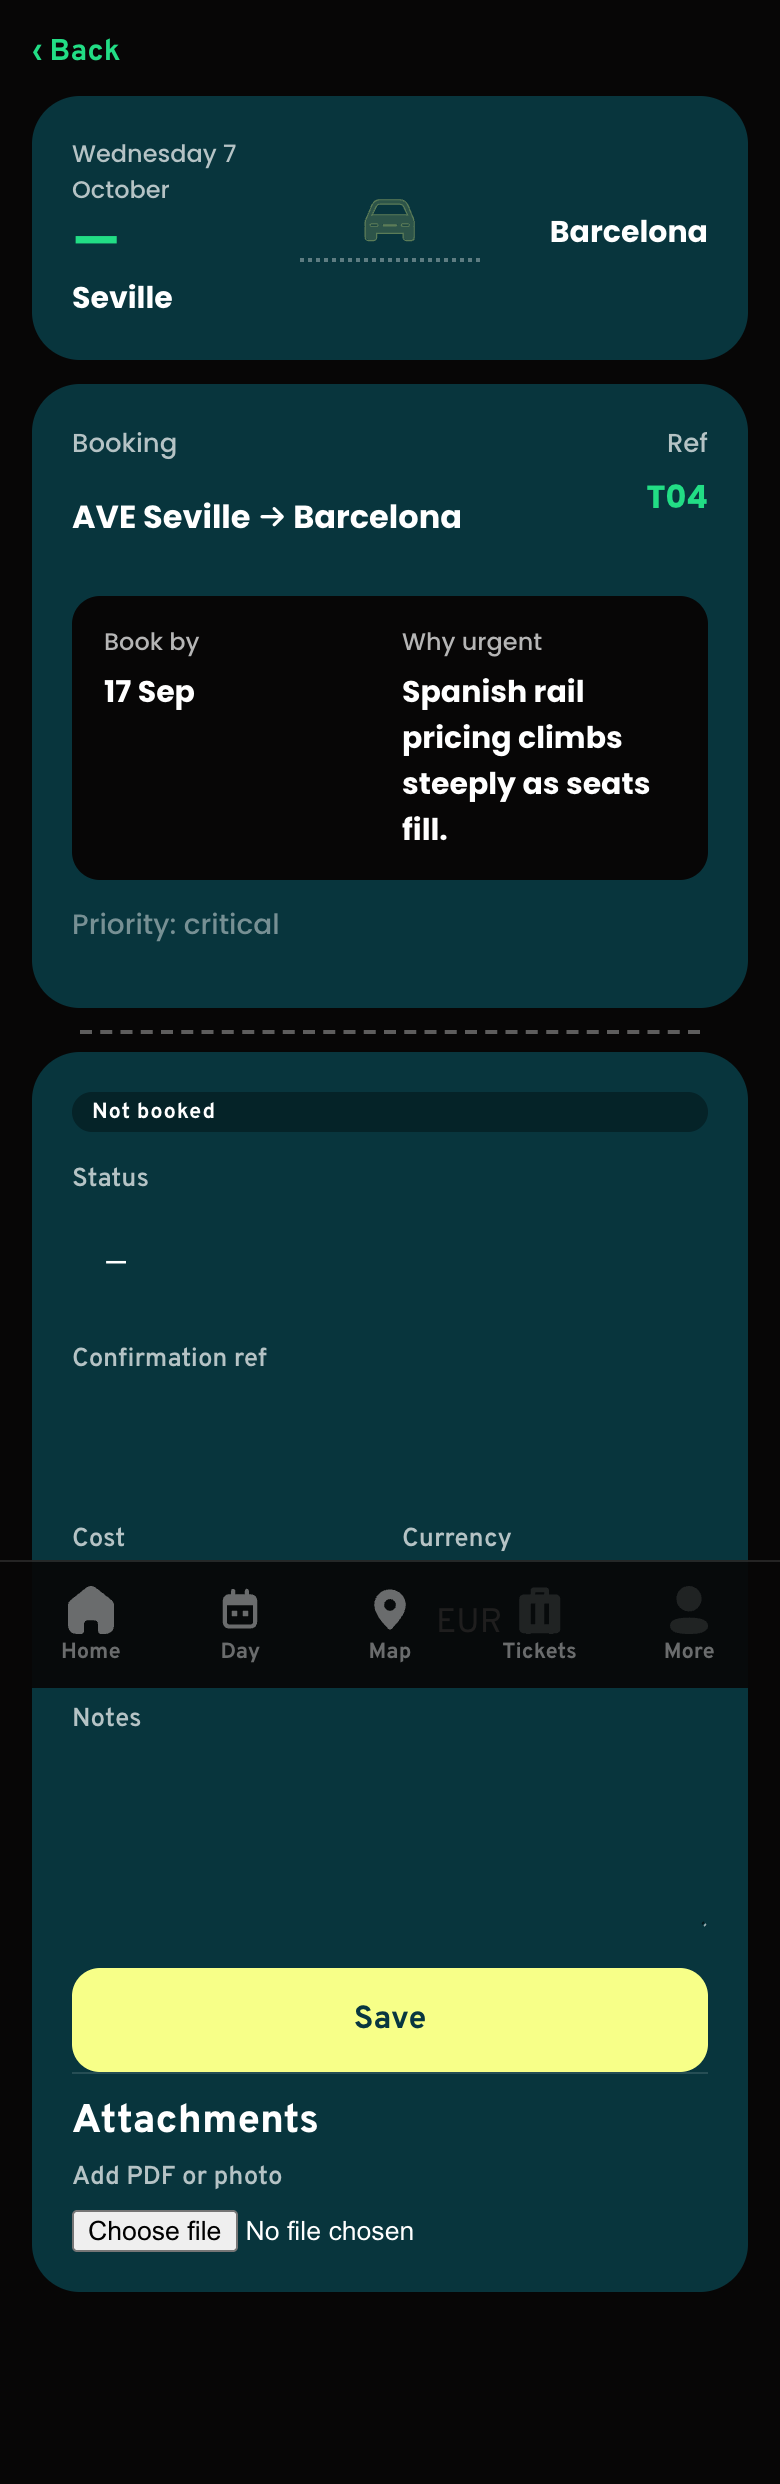
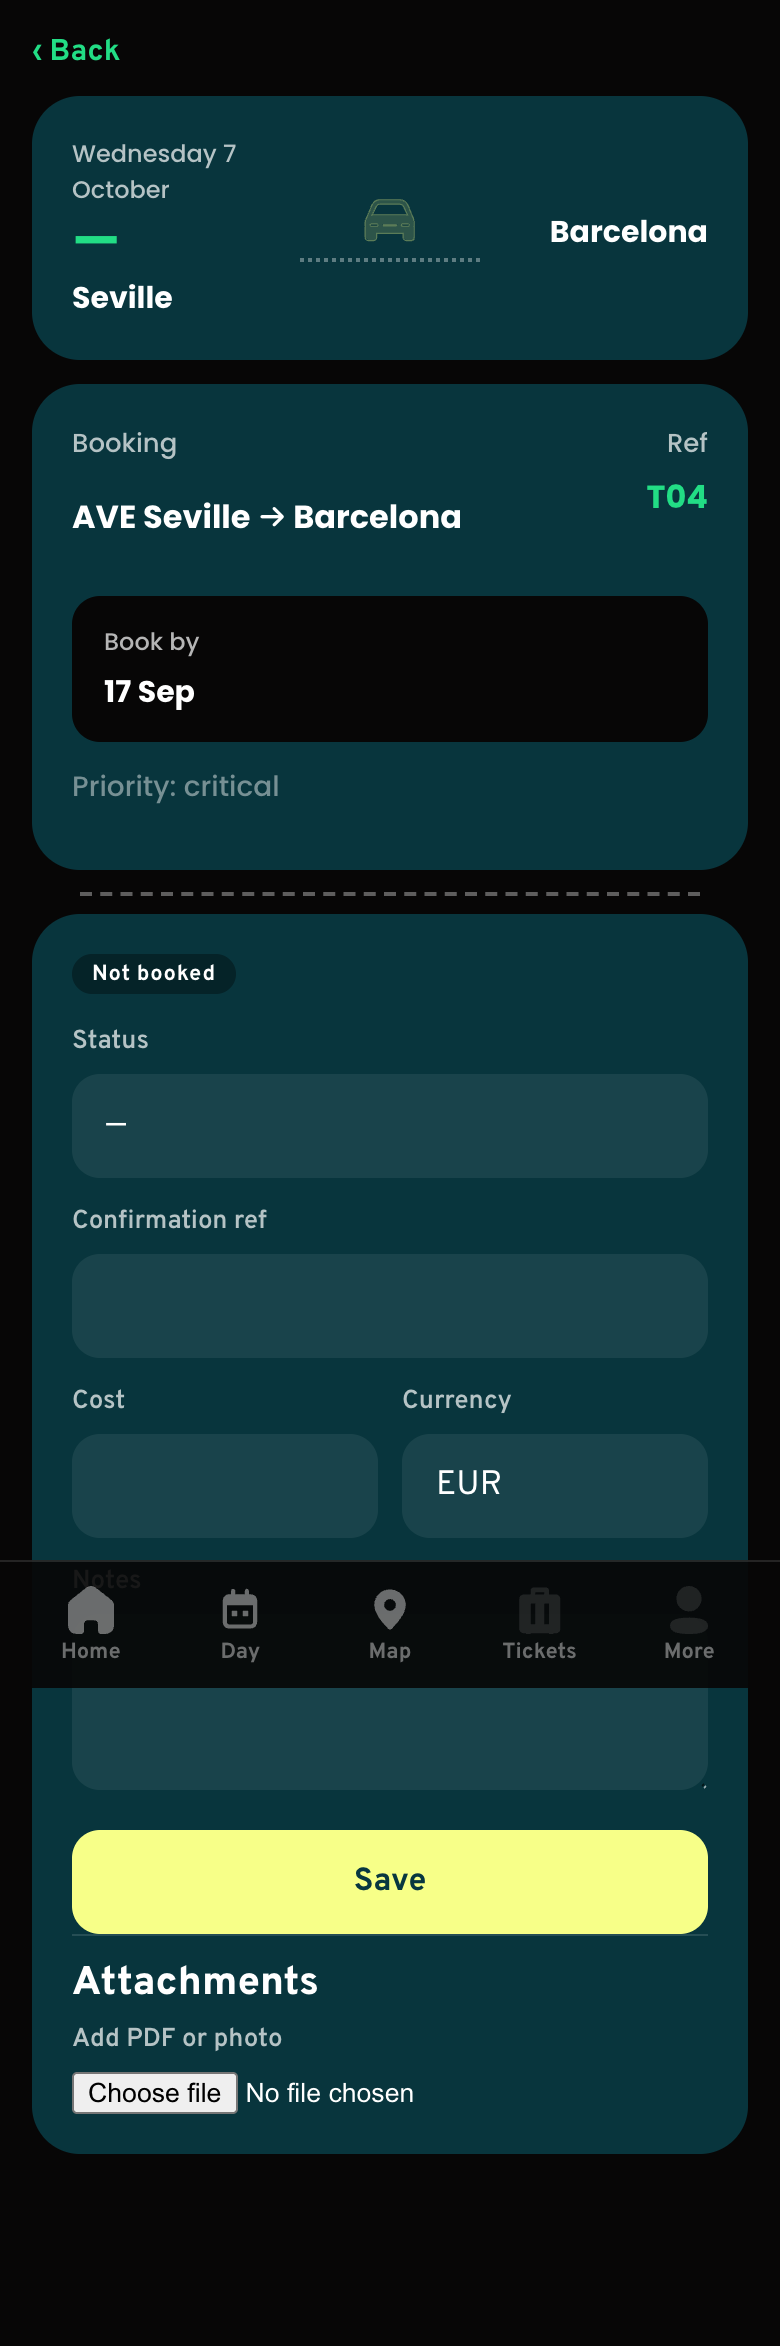
docs(plan 5): refresh Plan 5 screenshots and record the final fix wave
Re-captured all 12 shots against the fixed build (Seville 2026-10-05, Lisbon
2026-10-01) and added lisbon-ticket-flight.png for the Ryanair boarding pass.
seville-more.png now masks the account email — this repo is public.
probe-screens.mjs no longer double-appends ?trip= now that the app's own links
carry it.

diff --git a/docs/superpowers/plans/2026-09-16-plan-5-notes.md b/docs/superpowers/plans/2026-09-16-plan-5-notes.md
@@ -52,3 +52,60 @@ Ran against both real imported cities: Seville (`2026-10-05`) and Lisbon (`2026-
 | Place screen shows the lavender hero | **Pass.** `seville-place.png` (Muy Río Coffee) and `lisbon-place.png` (Leave Benfica, CP train to Rossio) both show the `place-detail__hero` in the lavender surface with the kind glyph and title. |
 
 No CSS/class-level visual defects were found that needed a one-line fix; the two script bugs found (selector, missing `?trip=`) were fixed in the tooling itself as noted above.
+
+## Final fix wave (16 Sep 2026)
+
+Whole-branch review findings, all fixed in one code commit (`0449a8f`) plus this screenshot
+refresh. `npx vitest run` → **505 passed (54 files)** (was 493); `npm run build` clean; the Step 9
+acceptance grep (`salmon|banana|granny|golden|columbia|coral|--card\b|--card-alt|--bg-2`) prints
+nothing.
+
+| # | What changed | Where |
+| --- | --- | --- |
+| C1 | `TicketDetail` waits for `useBookingState`'s `loading` before mounting `BookingForm`, and keys it `id:updated_at` so a later row remounts it. Save can no longer upsert nulls over a stored ref/cost/notes. | `src/screens/TicketDetail.tsx` |
+| C2 | A cold `/ticket/:trip/:id` calls `setSlug(tripParam)` when the path names a known trip other than the ambient one, and shows Loading (not "No ticket") while the switch is in flight. Every generated `/ticket/…` and `/place/…` link now carries `?trip=`. | `TicketDetail.tsx`, `Home.tsx`, `Tickets.tsx`, `StopRow.tsx`, `PlaceDetail.tsx`, `Map.tsx` |
+| I1 | `Md` renders `**[label](url)**` as `<strong><a>label</a></strong>` (or a bold label under `noLinks`) instead of printing brackets and the raw URL. | `src/components/Md.tsx` |
+| I2 | `inferKind`/`kindIcon` recognise a flight code (`FR3628`, case-sensitive, digits required) and the common carriers, so `Ryanair FR3628 LIS → SVQ` is transport with the plane glyph. | `src/lib/tickets.ts` |
+| I3 | `.pass__stub .field__input` gets a translucent fill — the form fields were invisible against `--surface`. | `src/styles/base.css` |
+| I4 | `fourCells` skips generic `fields` values over 40 characters (Cost/Contact/Book by stay unconditional). | `src/lib/tickets.ts` |
+| I5 | `.pass__status .status-pill { align-self: flex-start }` — the pill no longer stretches the column width. | `base.css` |
+| I6 | Home switches to the trip whose dates contain today when the loaded one does not (once per mount, ref-guarded). | `src/screens/Home.tsx` |
+| I7 | `PlaceDetail` mirrors Day: a queued tick shows `QUEUED_COPY`, a rejected one shows "Couldn't save — you may be offline", both clearing after 4 s. | `src/screens/PlaceDetail.tsx` |
+| I8 | `button.status-pill` gets a 44 px hit area via `::before { inset: -12px -6px }`, visual size unchanged. | `base.css` |
+| minor | Last three `#11da8f` accents retinted to `#22DD85` (Map `ACCENT`, focus ring, world-hero drop shadow); `ticketLines` event sub uses `b.fields.cost || b.address`; `.tickets-day__heading` sticks at `var(--safe-top)`; `tools/probe-session.mjs` takes the email from `PROBE_EMAIL`/argv[3] and exits with usage when neither is set. | various |
+
+New tests: bold-link rendering both ways (`Md.test.tsx`), the Day `noLinks` test now asserts the
+label survives without the URL, flight-code/carrier inference and the `FR Bistro` negative
+(`tickets.test.ts`), the 40-char cell rule, the empty-cost event fallback, the deferred-then-landed
+booking form and the cold cross-trip deep link (`TicketDetail.test.tsx`), the today-in-another-trip
+switch and its no-op case (`Home.test.tsx`), queued and failed ticks (`PlaceDetail.test.tsx`).
+
+`tools/probe-screens.mjs` no longer appends `?trip=` blindly — the app's own links carry it now, so
+it only fills in when a link arrives without one.
+
+### Screenshot refresh
+
+All 12 existing PNGs in `2026-09-16-plan-5-shots/` re-captured against this build (Seville
+2026-10-05, Lisbon 2026-10-01), plus a new `lisbon-ticket-flight.png` for the Ryanair booking
+(`/ticket/lisbon/B04`). Read-through notes:
+
+- `lisbon-ticket-flight.png` — **I2 confirmed live**: plane glyph, "Departs 07:55", the boarding-pass
+  layout rather than the event hero. **I3/I5 confirmed**: Status/Confirmation ref/Cost/Notes fields
+  are visible against the stub, and the "Booked" pill hugs its text.
+- `seville-ticket-pass.png` (AVE Seville → Barcelona) — same, with the "Not booked" pill hugging and
+  the single `Book by 17 Sep` cell; the `why_urgent`-style prose no longer appears in the strip (I4).
+- `lisbon-tickets.png` — the Ryanair row is now a dark transport card with a plane, grouped under
+  Sunday 4 October. `seville-tickets.png` unchanged in shape.
+- Lisbon `day` — the route strip's "Open route" links render as links, not raw `**[…](…)**` (I1).
+- `seville-home.png` — the "Tours and events" row still carries a card titled **FR3628 / Lands
+  Seville 10:00 local**. That is a Seville *stop item* for the arriving flight; the matching booking
+  lives in the Lisbon trip, so `bookingForStop` (single-trip by construction) cannot pair them. Not
+  one of this wave's findings — flagging it as a cross-trip content/matching gap for the controller.
+- `lisbon-map.png` — the over-zoom from the last wave's Finding 2 is unchanged (pin 11 still up near
+  Turcifal). Still an import data problem, not a code one.
+- The fixed tab bar still interleaves mid-page in `fullPage` shots — the Playwright artifact noted
+  last wave, not a rendering bug.
+- `seville-more.png` was re-captured with the account email replaced by `owner@example.com` in the
+  DOM before the shot: this repo is public and the previous copy showed the owner's address. The
+  older copy is still in git history at `632cb61` — worth a controller decision on whether that
+  matters.
